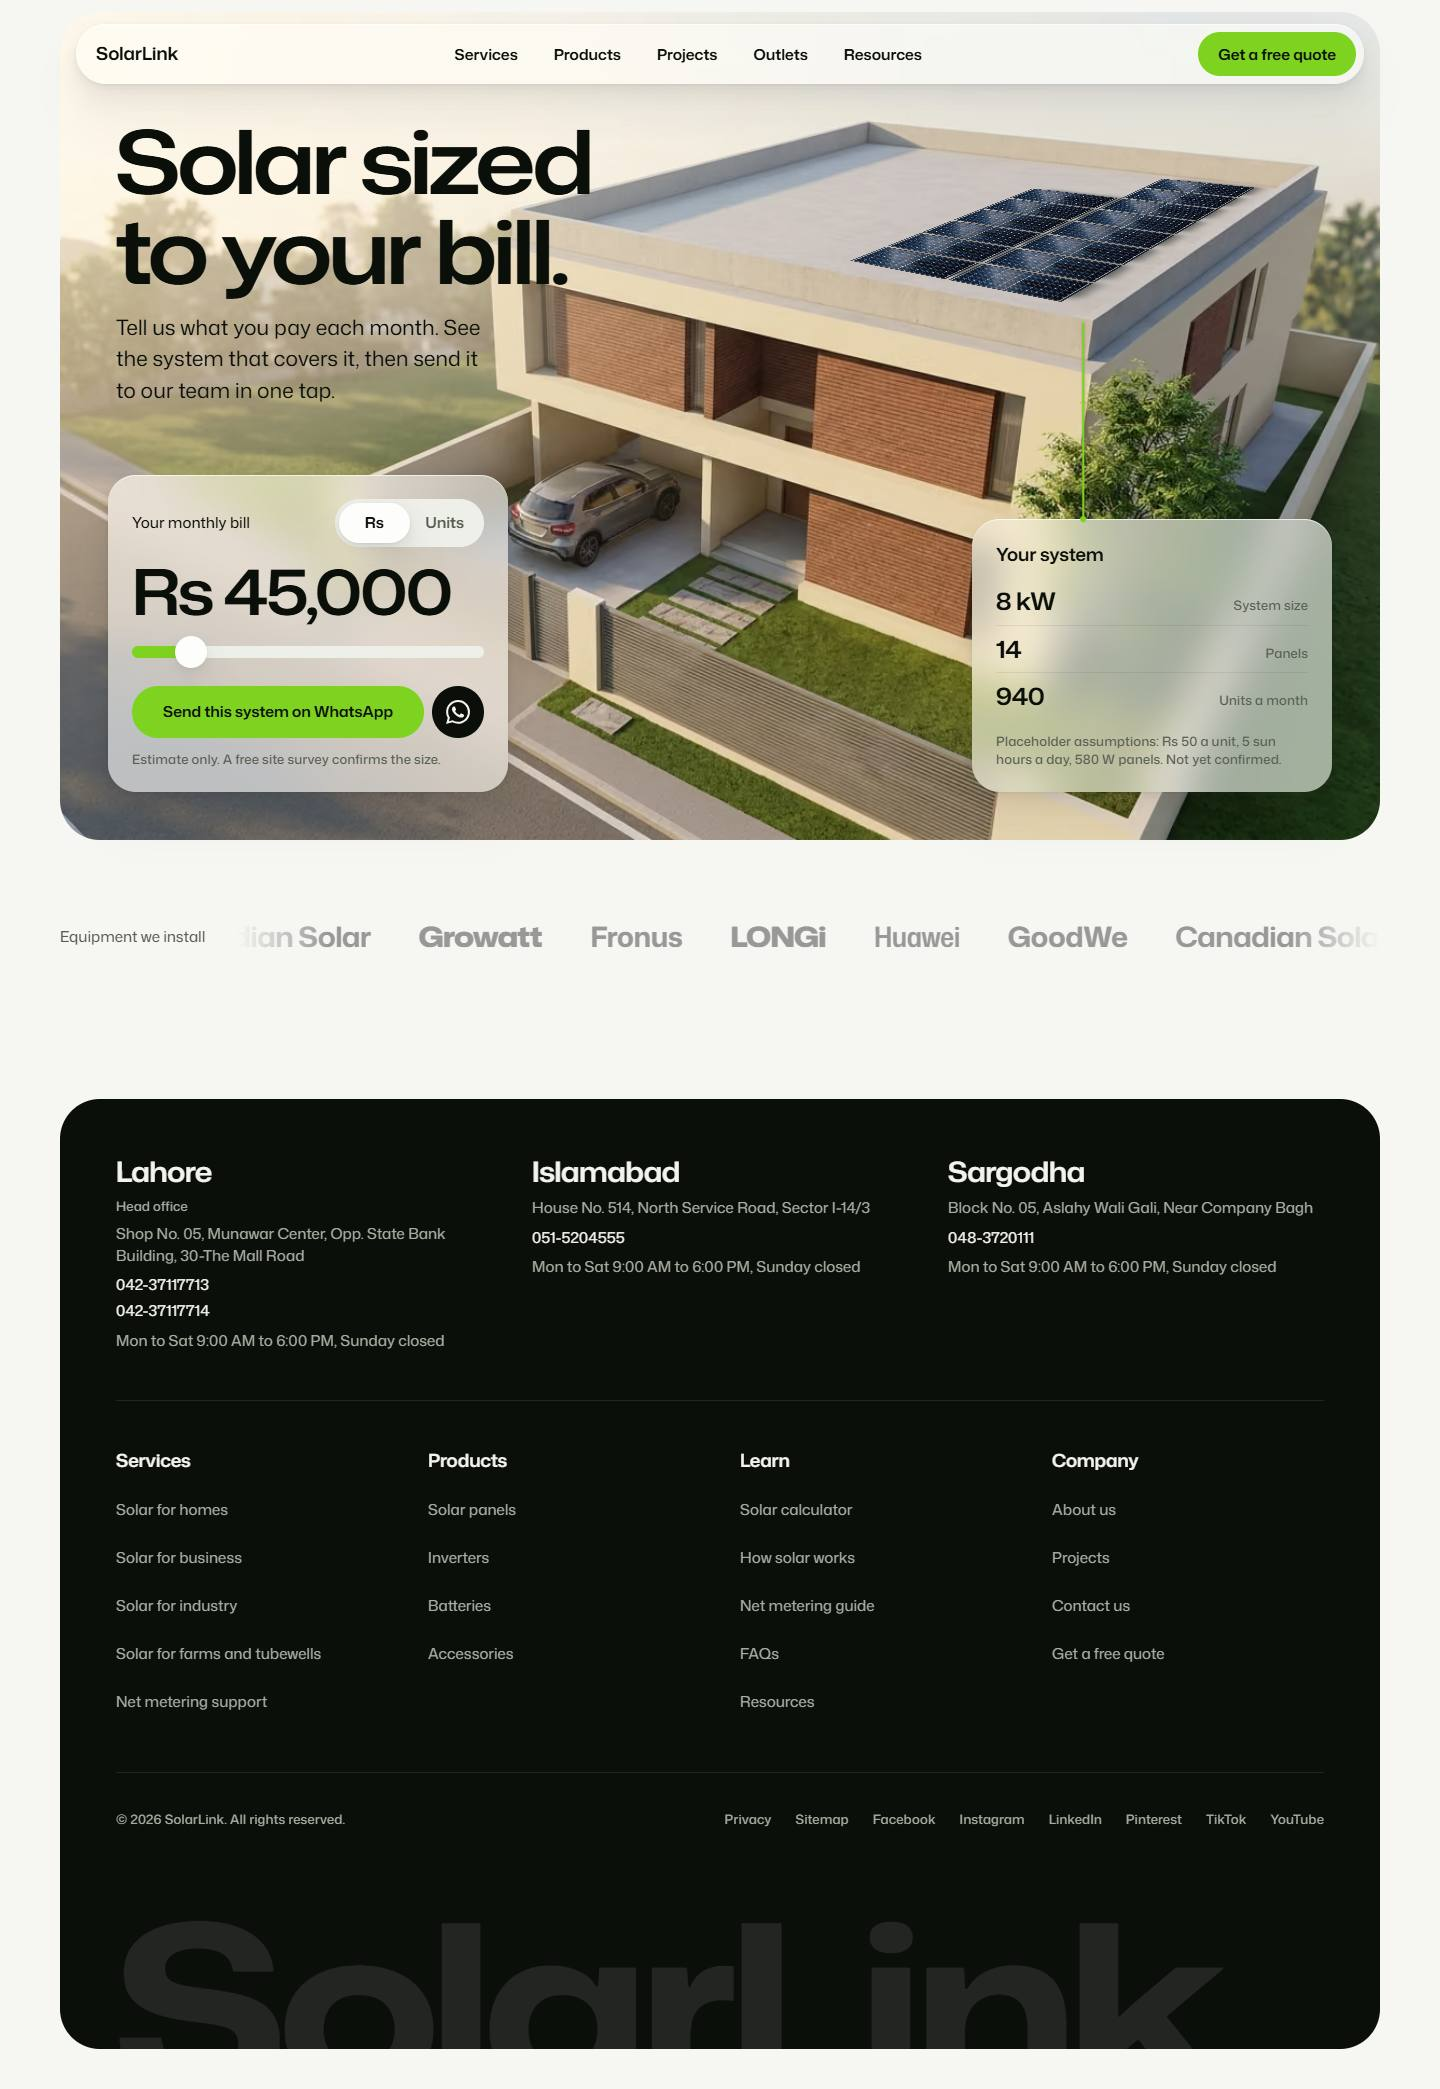
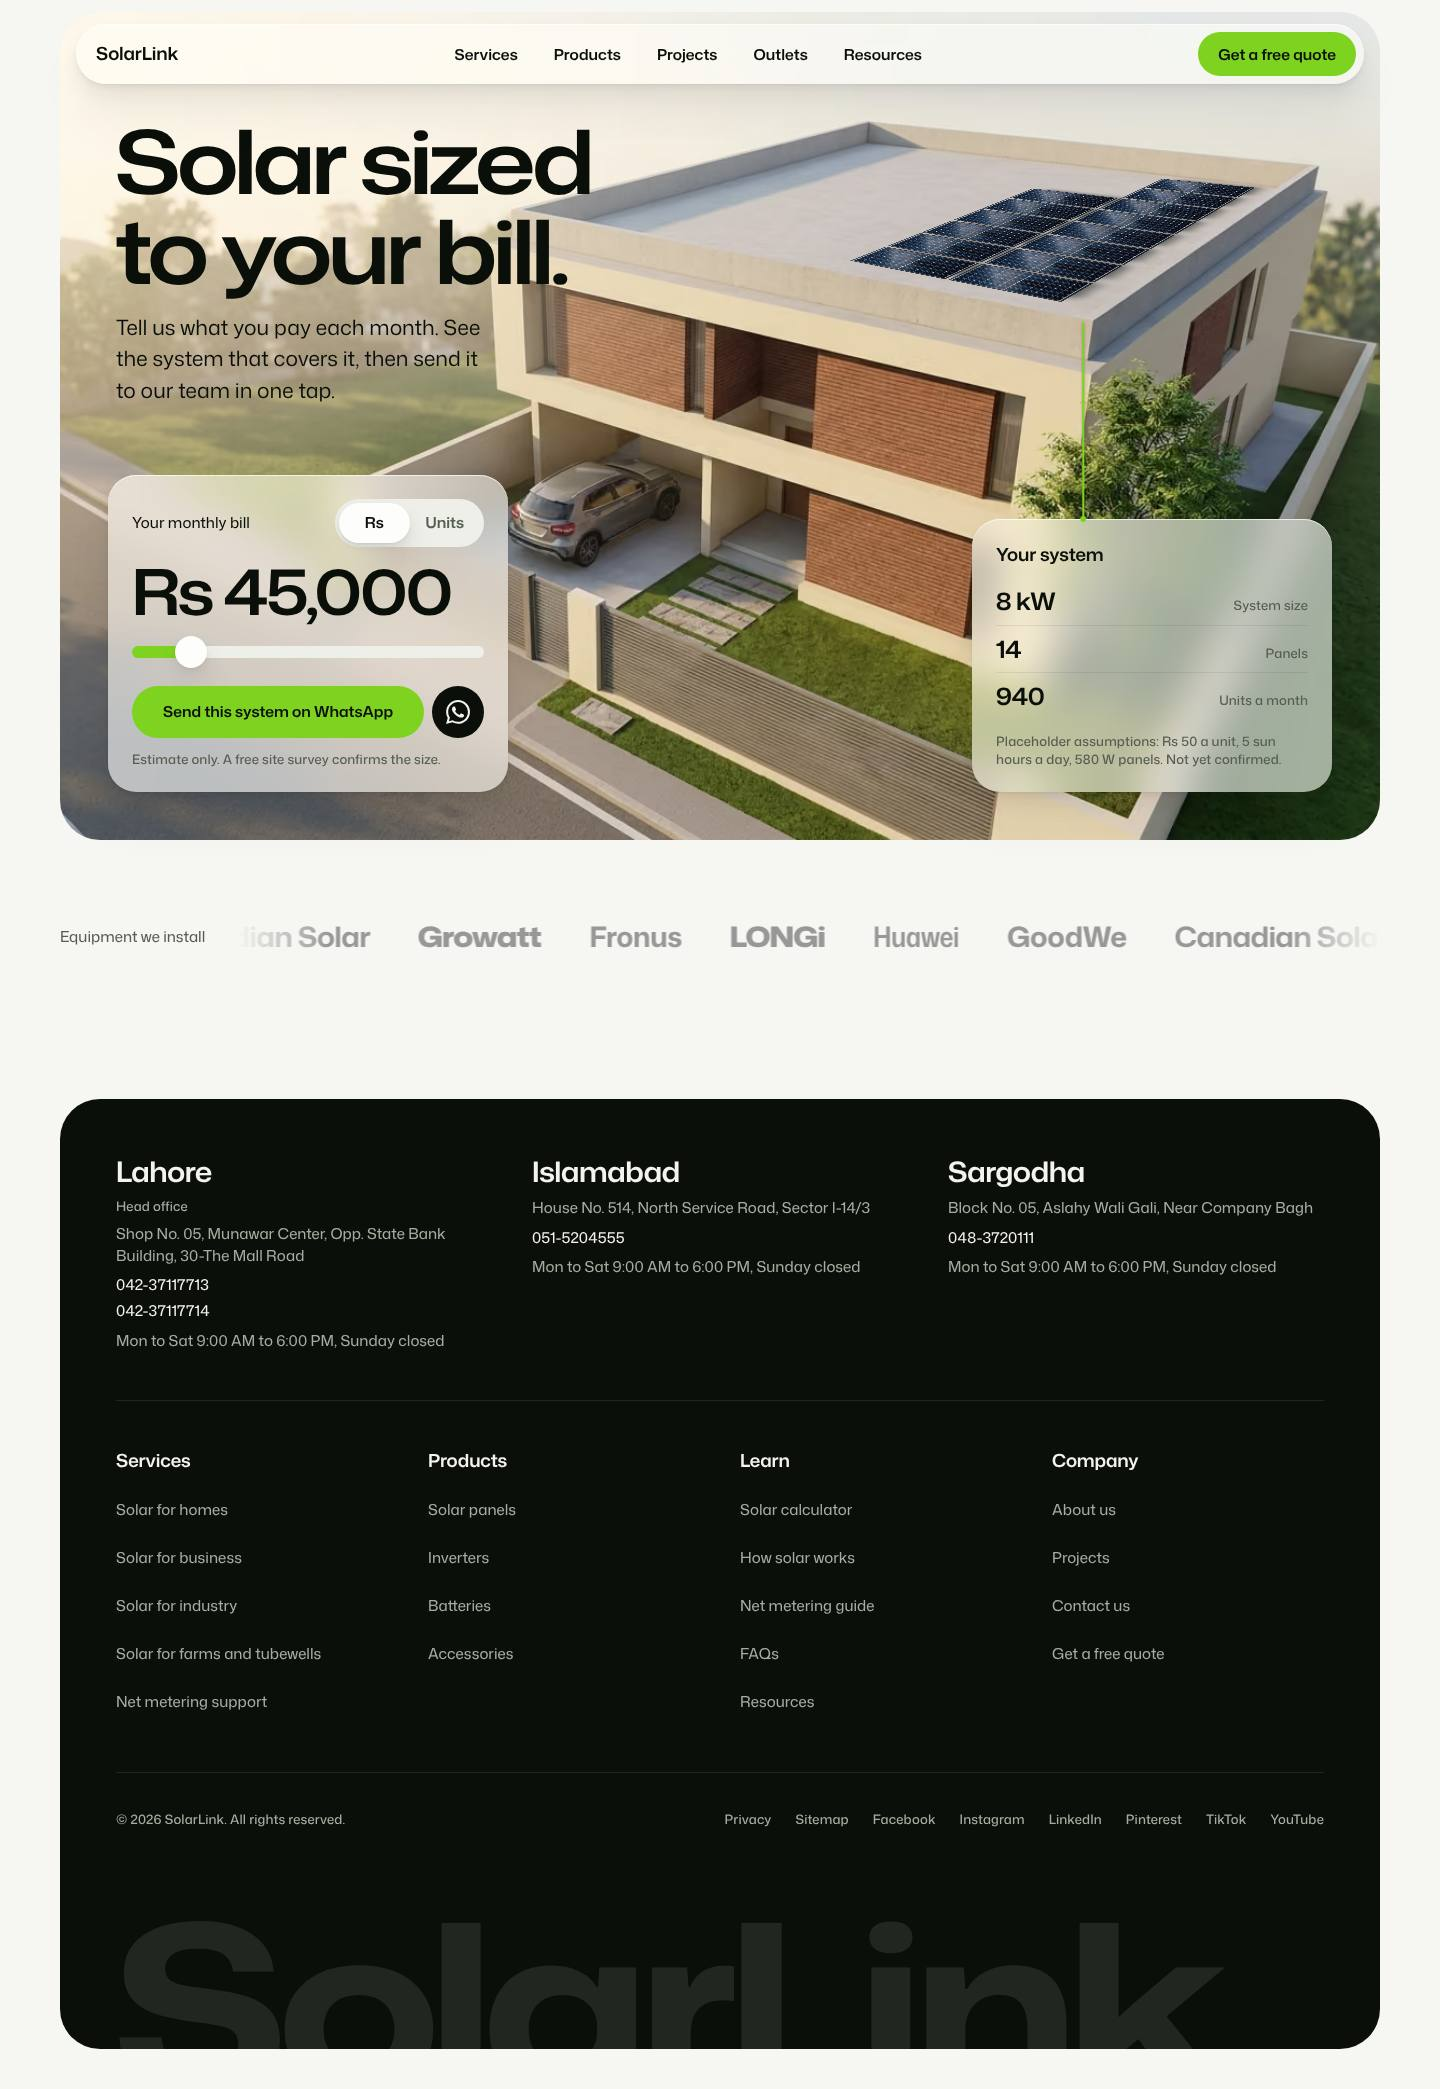
phase 3c: native controls, no motion library

Changed region(s): [[0.6875, 0.5601, 0.7188, 0.5912], [0.375, 0.5601, 0.4062, 0.5912], [0.0938, 0.5912, 0.125, 0.6223]]

diff --git a/src/components/site/MenuSheet.tsx b/src/components/site/MenuSheet.tsx
@@ -24,7 +24,7 @@ export function MenuSheet() {
           const r = e.currentTarget.getBoundingClientRect();
           if (e.clientX < r.left || e.clientX > r.right || e.clientY < r.top || e.clientY > r.bottom) close();
         }}
-        className="fixed inset-x-gutter bottom-auto top-21 m-0 w-auto max-w-none flex-col rounded-card border-0 bg-surface p-2 text-ink shadow-float open:flex lg:hidden"
+        className="fixed inset-x-gutter bottom-auto top-21 m-0 w-auto max-w-none flex-col rounded-card border-0 bg-surface p-2 text-ink shadow-float backdrop:bg-transparent open:flex lg:hidden"
       >
         <div className="flex items-center justify-between pl-4">
           <h2 id={titleId} className="text-title">

diff --git a/src/app/layout.tsx b/src/app/layout.tsx
@@ -38,9 +38,9 @@ export default function RootLayout({ children }: { children: React.ReactNode }) 
         </a>
         <Reveal />
         <SmoothScroll />
-          <Nav brand={show(business.name) as string} />
-          {children}
-          <Footer />
+        <Nav brand={show(business.name) as string} />
+        {children}
+        <Footer />
       </body>
     </html>
   );

diff --git a/CLAUDE.md b/CLAUDE.md
@@ -22,7 +22,7 @@ Brand assets: `../growth/Brand/`. Raw audit data: `../.agency/raw/`. Copy into `
 
 ## Stack
 
-Next.js App Router, **static export** (`output: 'export'`, `trailingSlash: true`, `images.unoptimized`, pre-sized AVIF and WebP) · React · TypeScript strict · Tailwind CSS v4 · shadcn/ui restyled to our tokens · Motion · Lenis · lucide-react · Zod (Worker) · Playwright + axe · Lighthouse CI · **pnpm** · Cloudflare Workers (static assets plus one small Worker for `/api/*`).
+Next.js App Router, **static export** (`output: 'export'`, `trailingSlash: true`, `images.unoptimized`, pre-sized AVIF and WebP) · React · TypeScript strict · Tailwind CSS v4 · own primitives on native elements (range, radio, dialog, details), styled to our tokens · Web Animations API springs and CSS · Lenis (idle, fine pointer only) · lucide-react · Zod (Worker) · Playwright + axe · Lighthouse CI · **pnpm** · Cloudflare Workers (static assets plus one small Worker for `/api/*`).
 
 Check current docs with context7 before using a library API. Add no dependency for what a few lines or the platform does.
 
@@ -40,7 +40,7 @@ Check current docs with context7 before using a library API. Add no dependency f
    prices and rates; 4.8 stars or any rating; review counts (47, 71, 111); "350+ Islamabad installs"; "400+ Rawalpindi installs"; "#1 installer"; "top installer"; "51 to 200 professionals" or any team size; "bills drop 70% to 100%"; "payback 3 to 5 years"; "10 kW for PKR 12 to 16 lakh"; "certified installers"; "0% markup"; installment plans; "zero bill"; "lifetime support"; "same day"; "genuine"; any warranty length; any install time; years in business; "Tier-1" as a promise; "authorised dealer" or "authorised installer" for any brand.
    A script (`pnpm check:claims`) greps content and built HTML for these. Write `[confirm with client]` instead.
 10. **Accessibility:** WCAG 2.2 AA, targets 44px or more, visible focus on every control, labelled inputs, keyboard-complete flows, reflow at 200% zoom, no information by colour alone. Every image has real alt text from content.
-11. **Budgets:** LCP 2.0 s, CLS 0, INP 200 ms, homepage JS (every script the built `index.html` loads, gzipped, `noModule` excluded) at most the React and Next baseline plus 50 KB (baseline measured 16 Nov 2026 with an empty page: 170.6 KB, so the limit is 220.6 KB; `node scripts/js-size.mjs` checks it), Lighthouse mobile 95+ on every page type. No render-blocking third party. Analytics after first interaction. Images have width and height; the hero is preloaded AVIF.
+11. **Budgets:** LCP 2.0 s, CLS 0, INP 200 ms, homepage JS (every script the built `index.html` loads, gzipped, `noModule` excluded) at most the React and Next baseline plus 50 KB (baseline measured 16 Nov 2026 with an empty layout and page: 132.0 KB, so the limit is 182.0 KB and the phase 3c target 152.0 KB; `node scripts/js-size.mjs` checks it), Lighthouse mobile 95+ on every page type. No render-blocking third party. Analytics after first interaction. Images have width and height; the hero is preloaded AVIF.
 12. **Security:** secrets only in the Worker and `.env.local` (never committed, never printed). Zod on every `/api` input. Honeypot, time trap and rate limit on `/api/quote`. Headers in `public/_headers`: CSP, HSTS, `X-Content-Type-Options`, `Referrer-Policy`, `Permissions-Policy`, `frame-ancestors 'none'`. No personal data in URLs or analytics events. Leads are stored before WhatsApp opens.
 13. **SEO ground rules:**
     - Canonical URL form is `https://solarlink.com.pk/path/` (apex, https, trailing slash). Internal links and the sitemap use it. Never link to a redirect or a `.html` URL.
@@ -60,6 +60,8 @@ pnpm typecheck      # tsc --noEmit
 pnpm check:content  # unconfirmed facts and placeholders (fails production builds)
 pnpm check:claims   # banned-claims grep
 pnpm check:js       # homepage JS vs baseline + 50 KB (run after build)
+pnpm check:sizing   # sizing maths self-check (runs first in build)
+pnpm shot           # screenshots of out/ into design/shots/ (preview build; Linux: SHOT_CHROME=/opt/pw-browsers/chromium)
 pnpm test:e2e       # Playwright + axe
 pnpm lhci           # Lighthouse CI against out/
 pnpm preview        # wrangler dev: serve out/ with the Worker
@@ -73,7 +75,7 @@ Scripts are added in the foundation phase; keep this list in sync. SEO scripts a
 - Order: design language (done) → homepage blueprint (done) → hero mock → foundation (tokens, content, Worker, checks) → chrome (nav, footer) → homepage → service pages → outlets → products → projects → guides and FAQ → quote flow → SEO, tests, go-live.
 - Each phase ends with: `pnpm build`, `pnpm lint`, `pnpm typecheck`, `pnpm check:content` passing; screenshots at 1440 and 390 of what changed shown to Ameer; a dated entry in `docs/PHASES.md`; one commit.
 - Visual changes are confirmed by Ameer before the next phase builds on them.
-- Skills: `ponytail` while building, `impeccable` before and after UI edits, `apple-design` and `anthropic-skills:motion-framer` for motion, `design-system-audit` for drift, `website-seo` for URLs and checks, `schema` for JSON-LD, `security-review` before launch.
+- Skills: `ponytail` while building, `impeccable` before and after UI edits, `apple-design` for motion, `design-system-audit` for drift, `website-seo` for URLs and checks, `schema` for JSON-LD, `security-review` before launch.
 - Delegate bulk or repetitive work (image batches, research, per-page boilerplate, second opinions) to Antigravity (`agy`) per the global rules, and check what comes back.
 - Generated images keep a sidecar note (prompt, tool, date) in `design/img/`.
 

diff --git a/DESIGN.md b/DESIGN.md
@@ -141,7 +141,7 @@ Grammar:
 - **Link line**: an SVG path draws once on entry (stroke-dashoffset), then one small dot travels along it on a slow loop.
 - **Smooth scroll**: Lenis, only with a fine pointer and without reduced motion. No pinned sections, no scroll-scrubbed stories, no horizontal scroll hijack.
 - Only `transform` and `opacity` animate. No `transition: all`. `prefers-reduced-motion`: springs become 150ms fades, loops stop, Lenis off.
-- Motion libraries: Motion (framer-motion) for springs and layout, CSS for the rest. No GSAP unless a named effect cannot be done otherwise.
+- Libraries: none for animation. Springs are sampled once in `src/lib/spring.ts` into CSS `linear()` easings (the `--spring-*` variables) and the Web Animations API (panel, chip and figure pops); entry (rise 24px, fade, once at 20% visible, 80ms stagger) is a data attribute toggled by one IntersectionObserver with the transition in CSS; press, hover, zoom and the marquee are CSS. Lenis (dynamic import when idle) is the only motion dependency. No Motion, framer-motion, Radix or GSAP; a named effect that CSS and WAAPI cannot do needs a line here first.
 
 ## Components (build once, reuse everywhere)
 
@@ -208,4 +208,4 @@ Other choices: the accordion panel height animates with a CSS keyframe on `--dur
 
 ## Added in phase 3 (chrome, hero, brand belt)
 
-No existing value changed. New tokens in `src/styles/tokens.css`: `--haze` (warm light wash over the hero image), `--panel-base`, `--panel-shadow` (roof panel object, drawn on the image), `--link-shadow` (legibility of the link line on the image), `--hero-height` (`min(92svh, 53.75rem)`), `--t-figure-compact-size` (2.75rem, big figure on short desktop windows), `--t-stat-size` and `--t-stat-size-lg` (result card figures), `--t-giant-*` (footer wordmark), `--measure-display` 11ch, `--measure-lead` 29ch, `--measure-lead-wide` 36ch. Utilities: `page-width` (nav, stages and content share the page edges: gutter inside the viewport, 1320px at most), `nav-width`, `hero-art`, `short:` variant (desktop windows 50rem high or less). Phase 3 components: `Nav` (Radix Dialog sheet under 64rem), `Footer`, `Hero` with `SizingProvider`, `SizingCard`, `ResultCard`, `RoofPanels`, `LinkLine`, `BrandBelt`.
+No existing value changed. New tokens in `src/styles/tokens.css`: `--haze` (warm light wash over the hero image), `--panel-base`, `--panel-shadow` (roof panel object, drawn on the image), `--link-shadow` (legibility of the link line on the image), `--hero-height` (`min(92svh, 53.75rem)`), `--t-figure-compact-size` (2.75rem, big figure on short desktop windows), `--t-stat-size` and `--t-stat-size-lg` (result card figures), `--t-giant-*` (footer wordmark), `--measure-display` 11ch, `--measure-lead` 29ch, `--measure-lead-wide` 36ch. Utilities: `page-width` (nav, stages and content share the page edges: gutter inside the viewport, 1320px at most), `nav-width`, `hero-art`, `short:` variant (desktop windows 50rem high or less). Phase 3 components: `Nav` (native dialog sheet under 64rem), `Footer`, `Hero` with `SizingProvider`, `SizingCard`, `ResultCard`, `RoofPanels`, `LinkLine`, `BrandBelt`.

diff --git a/docs/PHASES.md b/docs/PHASES.md
@@ -70,3 +70,18 @@ Done:
 
 Open:
 - Headroom is thin (9.8 KB) for homepage sections 3 to 11. Radix (Slider, ToggleGroup, Dialog, Accordion) and Motion are the largest removable parts; do the diet steps when a section pushes the page over, or before then if Ameer wants more room.
+
+## 16 Nov 2026: phase 3c, JS diet (native controls, no motion library)
+
+Done:
+- Slider is a native `<input type="range">` (52px, pill track, lime fill from `--p`, floating thumb, `aria-valuetext`). SegmentedControl is a fieldset of radios with a CSS-driven sliding pill. Phone menu is a native `<dialog>` with `showModal()` (Escape, inert page, focus return; transparent backdrop so it looks as before). Accordion is `<details name>` with the content in the server HTML. Radix and Motion are removed from `package.json` and the lockfile; nothing in `src` imports them.
+- Springs: `src/lib/spring.ts` samples the three springs into CSS `linear()` easings and Web Animations API pops (panels, chips, result figures). Entry reveal is `Reveal.tsx` (one IntersectionObserver, data attribute, CSS transition; guarded by `scripting: enabled`, so no-JS visitors see everything). Lenis loads by dynamic import when idle, fine pointer, no reduced motion.
+- Server and client: nav shell, footer, hero text and image, brand belt are server components; client leaves are MenuSheet, NavShrink, Reveal, SmoothScroll, the sizing island, Button (magnet pull), Chip, Field. The h1 and hero image are in `out/index.html` and never animate.
+- Baseline corrected: measured again on this branch (empty layout and page, same Next 16.4.6 and React 19.3.0): **132.0 KB** gzipped, 5 scripts. The earlier 170.6 KB wrongly included the 38.6 KB `noModule` polyfill (132.0 + 38.6 = 170.6). Limit is now **182.0 KB**, phase 3c target 152.0 KB. Fixed in CLAUDE.md, PRD, `scripts/js-size.mjs`.
+- Homepage now **150.5 KB** in 8 scripts (70.0, 45.6, 12.6, 7.5, 5.5, 3.8, 3.5, 2.0), 1.5 KB under the target, 31.5 KB under the limit. (Phase 3b's 210.8 KB figure was with Radix and Motion.)
+- Checked by driving the page in Playwright (1440 and 390): slider keys, aria-valuetext, fill, 52px; radio arrows and pill position; panels pop in and out with the slider and chips update; dialog open, Escape, focus return, link click closes; h1 and image in HTML; no-JS page. Before and after screenshots match.
+- `scripts/shot.mjs`, `scripts/shots.cjs`, `design/mock/shot.cjs` use `SHOT_CHROME` as the browser path when set (Linux: `/opt/pw-browsers/chromium`), else Chrome. shot.mjs ignores aborted link prefetches and clicks the first nav button.
+
+Open:
+- Button is still a client component (magnet pull) and is imported by the server nav; a delegated listener would make it server-only.
+- Kit screenshots now include the nav and footer (they were taken in phase 1, before the chrome existed).

diff --git a/docs/PRD.md b/docs/PRD.md
@@ -135,7 +135,7 @@ Components never hold literal text, phone, address, price or brand name.
 | LCP | 2.0 s (mid phone, 4G) |
 | CLS | 0 |
 | INP | 200 ms |
-| JavaScript, homepage | at most the React and Next baseline plus 50 KB, gzipped, every script `index.html` loads, `noModule` excluded. Baseline 170.6 KB (empty page, 16 Nov 2026), limit 220.6 KB. Checked by `node scripts/js-size.mjs`. Motion and Lenis load after first paint |
+| JavaScript, homepage | at most the React and Next baseline plus 50 KB, gzipped, every script `index.html` loads, `noModule` excluded. Baseline 132.0 KB (empty page, 16 Nov 2026), limit 182.0 KB. Checked by `node scripts/js-size.mjs`. Lenis loads after the page is idle |
 | Lighthouse mobile | 95+ in all four categories |
 | Hero image | AVIF under 180 KB at 1440 wide, preloaded |
 | Font | one variable Mona Sans file, Latin subset, `swap`, size-adjusted fallback |
@@ -143,7 +143,7 @@ Components never hold literal text, phone, address, price or brand name.
 
 ## 9. Stack
 
-Next.js App Router as a static export (`output: 'export'`, `trailingSlash: true`, images unoptimized with pre-sized AVIF and WebP) · React · TypeScript strict · Tailwind CSS v4 (`@theme` tokens) · shadcn/ui restyled to the tokens · Motion · Lenis · lucide-react · Zod in the Worker · Playwright and axe · Lighthouse CI · pnpm.
+Next.js App Router as a static export (`output: 'export'`, `trailingSlash: true`, images unoptimized with pre-sized AVIF and WebP) · React · TypeScript strict · Tailwind CSS v4 (`@theme` tokens) · own primitives on native elements (range, radio, dialog, details) styled to the tokens · Web Animations API springs and CSS · Lenis (idle, fine pointer only) · lucide-react · Zod in the Worker · Playwright and axe · Lighthouse CI · pnpm.
 
 ## 10. Hosting
 

diff --git a/docs/HOMEPAGE.md b/docs/HOMEPAGE.md
@@ -73,4 +73,4 @@ One line of small text on the left: "Equipment we install". Belt of brand logos,
 - The server HTML holds the full h1, all section text and links. The sizing card works without JavaScript as a link to the quote page.
 - LCP is the hero image (preloaded AVIF, under 180 KB at 1440 wide) or the h1. Target LCP under 2.0 s on a mid phone, CLS 0, total JavaScript for the page within the budget in CLAUDE.md rule 11 (React and Next baseline plus 50 KB).
 - One h1. Title, description, canonical, Open Graph, `SolarEnergyCompany` or `LocalBusiness` schema for each live outlet, `Organization`, `WebSite`, `BreadcrumbList`. No `AggregateRating`.
-- Motion and Lenis load after first paint; the page is complete and usable before they arrive.
+- Lenis loads when the page is idle (fine pointer, no reduced motion only); the page is complete and usable before it arrives. There is no animation library.
